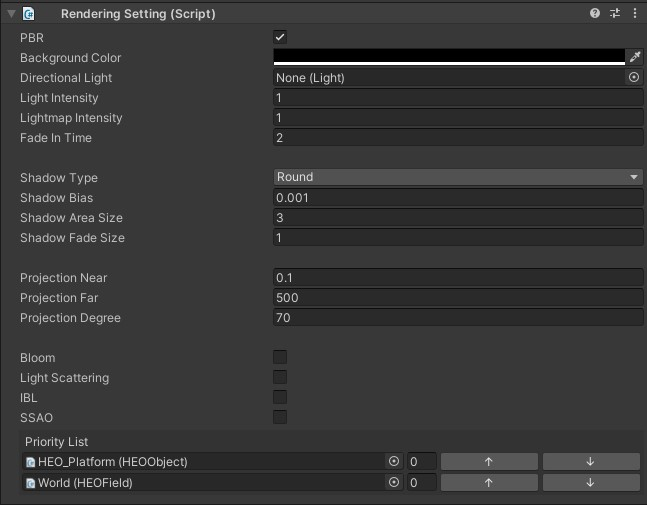
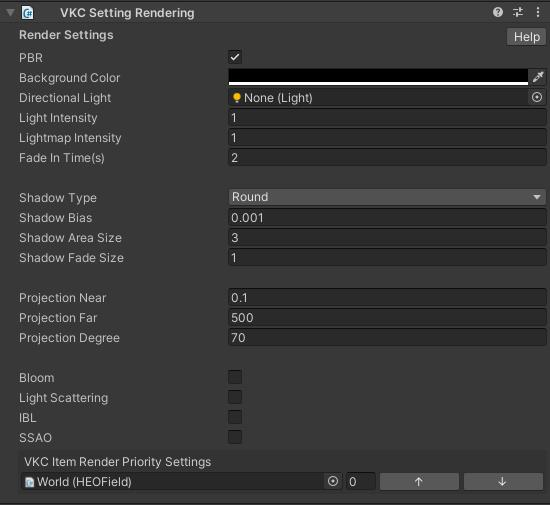
vkcrenderingsettingsの画像・デフォルト値更新

diff --git a/docs/VketCloudSettings/RenderingSettings.ja.md b/docs/VketCloudSettings/RenderingSettings.ja.md
@@ -1,4 +1,4 @@
-# RenderingSettings
+# VKC Rendering Settings
 
 ![RenderingSettings_1](./img/RenderingSettings_1.jpg)
 
@@ -8,22 +8,22 @@ RenderingSettingsでは、ワールドにおける描画設定を編集します
 | ---- | ---- | ---- |
 | `PBR` | true |  PBRライティングをオンにします。|
 | `Background Color` | #000000 | |
-| `Directional Light` | 空欄 | シーンに設置されたディレクショナルライトをワールドライトとして指定します。 |
-| `Light Intensity` | 1.0 | ワールドライトの強度を設定します。 |
-| `Lightmap Intensity` | 1.0 | ライトマップの強度を設定します。 |
-| `Fade In Time` | 2.0 |　ワールド入場時のホワイトフェードインの時間を秒単位で指定します。|
+| `Directional Light` | none(空欄) | シーンに設置されたディレクショナルライトをワールドライトとして指定します。 |
+| `Light Intensity` | 1 | ワールドライトの強度を設定します。 |
+| `Lightmap Intensity` | 1 | ライトマップの強度を設定します。 |
+| `Fade In Time` | 2 |　ワールド入場時のホワイトフェードインの時間を秒単位で指定します。|
 | `Shadow Type`| Round |　影の描画方法を指定します。`round`は 丸影、`normalshadowmap`は通常のシャドウマップです。<br>`normalshadowmap`は[VKC Node Shadow](../VKCComponents/VKCNodeShadow.md)と組み合わせて使用します。|
 | `Shadow Bias` | 0.001 |　影描画のバイアス値を設定します。|
-| `Shadow Area Size` | 3.0 |　シャドウを描画する距離をメートル単位で指定します。|
-| `Shadow Fade Size` | 1.0 |　シャドウ外周に向かってフェードアウトする距離をメートル単位で指定します。 |
+| `Shadow Area Size` | 3 |　シャドウを描画する距離をメートル単位で指定します。|
+| `Shadow Fade Size` | 1 |　シャドウ外周に向かってフェードアウトする距離をメートル単位で指定します。 |
 | `Projection Near` | 0.1 |  近傍のクリッピング距離を指定します。 |
-| `Projection Far` | 500.0 | 遠方のクリッピング距離を指定します。  |
-| `Projection Degree` | 70.0 | 画角を指定します。（デフォルト値推奨） |
+| `Projection Far` | 500 | 遠方のクリッピング距離を指定します。  |
+| `Projection Degree` | 70 | 画角を指定します。（デフォルト値推奨） |
 | `Bloom` | false | ブルームのオンオフを切り替えます。 |
 | `Light Scattering` | false | ライトスキャッタリングのオンオフを切り替えます。 |
 | `IBL` | false | IBL（Image-Based Lighting）のオンオフを切り替えます。 |
 | `SSAO` | false | SSAO (screen-space ambient occlusion)のオンオフを切り替えます。 |
-| `Priority List` | | ワールド内のオブジェクトの描画優先度を管理します。<br>数字の小さいアイテムから順番に描画され、数字が同じアイテムは同時に描画されます。 |
+| `VKC Item Render Priority Settings` | | ワールド内のオブジェクトの描画優先度を管理します。<br>数字の小さいアイテムから順番に描画され、数字が同じアイテムは同時に描画されます。 |
 
 ---
 
@@ -48,8 +48,8 @@ RenderingSettingsでは、ワールドにおける描画設定を編集します
 | `Light Scattering` | false | ライトスキャッタリングのオンオフを切り替えます。 |
 | `Scattering Intensity` | 0.8 | 空気散乱強度を設定します。 |
 | `Scattering Directivity` | 0.68 | 拡散指向性を調整します。 |
-| `G` | 0.0 | IBLの強さを調整するパラメータを設定します。 |
-| `Distance` | 150.0 |効果開始距離を設定します。 |
+| `G` | 0 | IBLの強さを調整するパラメータを設定します。 |
+| `Distance` | 150 |効果開始距離を設定します。 |
 | `LightColor` | #FFFFFF | ライトカラーを指定します。 |
 | `SunColor` | #D9D9FF | 太陽光色を設定します。 |
 
@@ -64,7 +64,7 @@ RenderingSettingsでは、ワールドにおける描画設定を編集します
 | `IBL` | false | IBL（Image-Based Lighting）のオンオフを切り替えます。 |
 | `DiffuseSize` | 512 | ディフューズマップのサイズを指定します。 |
 | `SpecularSize` | 512 | スペキュラマップのサイズを指定します。 |
-| `SpecularMipMapCount` | 6.0 | スペキュラ用キューブマップのミップマップの数を指定します。|
+| `SpecularMipMapCount` | 6 | スペキュラ用キューブマップのミップマップの数を指定します。|
 | `Diffuse Map` | | ディフューズマップの画像ファイルを指定します。 |
 | `Specular Map` | | スペキュラマップの画像ファイルを指定します。<br> 設定出来る面数は`SpecularMipMapCount`に応じて増減します。 |
 
@@ -79,9 +79,9 @@ RenderingSettingsでは、ワールドにおける描画設定を編集します
 | `SSAO` | false | | SSAO (screen-space ambient occlusion)のオンオフを切り替えます。 |
 | `Radius` | 0.7 | 0.1 ~ 1.0 | AOの範囲を設定します。正確なAO描画のために0.5~0.8内に収めることをお勧めします。 |
 | `Self Shadow Counter` | 0.2 | 0.1 ~ 1.0 | AOが発生しない想定の平面において、自分自身を誤検知してしまう現象を防止します。<br>正確なAO描画のために0.1~0.2内に収めることをお勧めします。 |
-| `Attenuation` | 3.0 | 0.0 ~ 3.0 | 柱や浮いている看板の背後など、距離が空いているのにAOが出てしまう箇所を押さえます。 |
+| `Attenuation` | 3 | 0.0 ~ 3.0 | 柱や浮いている看板の背後など、距離が空いているのにAOが出てしまう箇所を押さえます。 |
 | `Minimum Depth` | 0.02 | 0.0 ~ 0.1 |オクルージョンとみなす閾値の調整を行います。<br> AOの強度を強めた際、何もないところが暗くなってしまったら本値を上げると改善されます。（基本的には操作しないことをお勧めします） |
 | `Color Bleed` | 0.2 |  0.0 ~ 0.4 | 光の反射によって、範囲内の色がAOに乗る現象を疑似的に再現します。<br> 本値が0.0、もしくは`HSP`がfalseの際は機能しません。 |
-| `AO Ratio` | 3.0 | 0.25 ~ 5.0 | AOの強さ（濃度）を設定します。 |
+| `AO Ratio` | 3 | 0.25 ~ 5.0 | AOの強さ（濃度）を設定します。 |
 | `HSP` | true | | AOの黒色に背景の色を乗せるか設定します。これによって明るい部分が暗くなりすぎないようになります。<br> 基本的には`true`にしておくことを推奨します。 |
 | `Fake Bloom` | false | | ブラーのサンプルデータを疑似的なbloom表現のために使用するか否か設定します。<br> `Colbleed`値の設定に応じて強さが変化します。 |

diff --git a/docs/VketCloudSettings/RenderingSettings.en.md b/docs/VketCloudSettings/RenderingSettings.en.md
@@ -9,16 +9,16 @@ RenderingSettings handles the rendering settings of the world.
 |  `PBR` | true |  Enables PBR lighting. |
 | `Background Color` | #000000 | |
 | `Directional Light` | blank | Set a Directional Light placed in the scene as the directional light for this world. |
-| `Light Intensity` | 1.0 | Set the world light's intensity. |
-| `Lightmap Intensity` | 1.0 | Set the light map's intensity. |
-| `Fade In Time` | 2.0 | Set the white fade-in length on world enter in seconds.|
+| `Light Intensity` | 1 | Set the world light's intensity. |
+| `Lightmap Intensity` | 1 | Set the light map's intensity. |
+| `Fade In Time` | 2 | Set the white fade-in length on world enter in seconds.|
 | `Shadow Type`| Round | Set the Shadow Type. `round` is a round shadow, and `normalshadowmap` is a normal shadow map. <br>`normalshadowmap` is used with [VKC Node Shadow](../VKCComponents/VKCNodeShadow.md).|
 | `Shadow Bias` | 0.001 | Set the bias value on drawing shadows.|
-| `Shadow Area Size` | 3.0 | Set the distance for drawing shadow in meter.|
-| `Shadow Fade Size` | 1.0 |Set the fadeout size growing from the shadow's periphery in meter. |
+| `Shadow Area Size` | 3 | Set the distance for drawing shadow in meter.|
+| `Shadow Fade Size` | 1 |Set the fadeout size growing from the shadow's periphery in meter. |
 |  `Projection Near`  | 0.1 | Change the near clipping distance.  |
-|  `Projection Far`  | 500.0 | Change the far clipping distance.  |
-|  `Projection Degree`  | 70.0 | Change the FoV angle. (default value recommended) |
+|  `Projection Far`  | 500 | Change the far clipping distance.  |
+|  `Projection Degree`  | 70 | Change the FoV angle. (default value recommended) |
 | `Bloom` | false | Enable/disable bloom. |
 | `Light Scattering` | false | Enable/disable light scattering. |
 | `IBL` | false | Enable/disable IBL, or Image-Based Lighting. |
@@ -48,8 +48,8 @@ RenderingSettings handles the rendering settings of the world.
 | `Light Scattering` | false | Enable/disable light scattering. |
 | `Scattering Intensity` | 0.8 | Set the strength of atmospheric scattering. |
 | `Scattering Directivity` | 0.68 | Set the directivity, the degree of concentration of the scattered light. |
-| `G` | 0.0 | Set the parameter to adjust the strength of IBL, or Image-Based Lighting. |
-| `Distance` | 150.0 | Set the distance at which the light scattering starts. |
+| `G` | 0 | Set the parameter to adjust the strength of IBL, or Image-Based Lighting. |
+| `Distance` | 150 | Set the distance at which the light scattering starts. |
 | `LightColor` | #FFFFFF | Set the color of the light. |
 | `SunColor` | #D9D9FF | Set the color of the sunlight. |
 
@@ -64,7 +64,7 @@ RenderingSettings handles the rendering settings of the world.
 | `IBL` | false | Enable/disable IBL, or Image-Based Lighting. |
 | `DiffuseSize` | 512 | Set the size of the diffuse map texture. |
 | `SpecularSize` | 512 | Set the size of the specular map texture. |
-| `SpecularMipMapCount` | 6.0 | Set the amount of mip maps used for the specular cube map. |
+| `SpecularMipMapCount` | 6 | Set the amount of mip maps used for the specular cube map. |
 | `Diffuse Map` | | Designate the image files for the Diffuse Map. |
 | `Specular Map` | | Designate the image files for the Specular Map. <br> The amount of mip maps to set is designated according to `SpecularMipMapCount`. |
 
@@ -79,9 +79,9 @@ RenderingSettings handles the rendering settings of the world.
 | `SSAO` | false | Enable/disable SSAO (screen-space ambient occlusion).|
 | `Radius` | 0.7 | 0.1 ~ 1.0 | Set range of AO. For precise AO rendering, we recommend to set value within 0.5~0.8. |
 | `Self Shadow Counter` | 0.2 | 0.1 ~ 1.0 | Prevents self-shadow counting on planes intended to be without AO. <br>For precise AO rendering, we recommend to set value within 0.1~0.2. |
-| `Attenuation` | 3.0 | 0.0 ~ 3.0 | Prevents AO drawing on distance places behind pillars, floating boards, etc. |
+| `Attenuation` | 3 | 0.0 ~ 3.0 | Prevents AO drawing on distance places behind pillars, floating boards, etc. |
 | `Minimum Depth` | 0.02 | 0.0 ~ 0.1 | Adjust occlusion threshold. <br> Lowering this value may improve AO quality when AO intensity affects open spaces to be dark. (Intended to be left unedited unless needed)  |
 | `Color Bleed` | 0.2 |  0.0 ~ 0.4 | Creates a pseudo effect of color bleeding on AO which is caused by light bouncing.<br> This feature is disabled when value is set to 0.0, or `HSP` is set to false.  |
-| `AO Ratio` | 3.0 | 0.25 ~ 5.0 | Set the AO intensity (concentration). |
+| `AO Ratio` | 3 | 0.25 ~ 5.0 | Set the AO intensity (concentration). |
 | `HSP` | true | | If enabled, background color will be blended on the AO black. This will prevent lighter spots from being too dark.<br> Recommended to be set to `true`. |
 | `Fake Bloom` | false | | Designates whether to use the blur sample data for a pseudo-bloom effect. <br> Effect intensity is determined by `Colbleed` value. |

diff --git a/docs/changelog/changelog-13.4.ja.md b/docs/changelog/changelog-13.4.ja.md
@@ -1,5 +1,17 @@
 # SDK Manual Change Log - Ver 13.4
 
+## 2024年8月3日更新
+
+## 2024年8月3日 - 変更されたページ
+
+- VKCコンポーネント
+  - VKCItem
+    - VKCSetting
+      - [VKCSettingRendering](https://vrhikky.github.io/VketCloudSDK_Documents/13.4/VketCloudSettings/RenderingSettings.html)
+        - 説明文および画像を更新
+
+---
+
 ## 2024年7月26日更新
 
 ## 2024年7月26日 - 変更されたページ
@@ -17,6 +29,8 @@
         - File Deployment Modeについて追記
     - [VKC Setting Nameplate](https://vrhikky.github.io/VketCloudSDK_Documents/13.4/VKCComponents/VKCSettingNameplate.html)
       - 画像を更新
+
+---
 
 ## 2024年7月19日更新
 
@@ -55,6 +69,8 @@
     - 説明文および画像を更新
   - [VKC Item Object](https://vrhikky.github.io/VketCloudSDK_Documents/13.4/VKCComponents/VKCItemObject.html)
     - 各設定項目の説明、画像を更新
+
+---
 
 ## 2024年7月12日更新
 

diff --git a/docs/changelog/changelog-13.4.en.md b/docs/changelog/changelog-13.4.en.md
@@ -1,5 +1,15 @@
 # SDK Manual Change Log - Ver 13.4
 
+## Augast 3 2024 Update
+
+## Augast 3 2024 - Edited Pages
+
+- VKC Components
+  - VKCSettings
+    - VKCSettingRendering
+      - [VKCSettingRendering](https://vrhikky.github.io/VketCloudSDK_Documents/13.4/en/VketCloudSettings/RenderingSettings.html)
+        - Updated descriptions and images
+
 ## July 26 2024 Update
 
 ## July 26 2024 - Edited Pages
@@ -17,6 +27,8 @@
           - add description of File Deployment Mode
       - [VKC Setting Nameplate](https://vrhikky.github.io/VketCloudSDK_Documents/13.4/en/VKCComponents/VKCSettingNameplate.html)
       - Updated images
+
+---
 
 ## July 19 2024 Update
 
@@ -55,6 +67,8 @@
     - Updated descriptions of settings, updated images
   - [VKC Item Object](https://vrhikky.github.io/VketCloudSDK_Documents/13.4/VKCComponents/VKCItemObject.html)
     - Updated descriptions of settings, updated images
+
+---
 
 ## July 12 2024 Update
 
